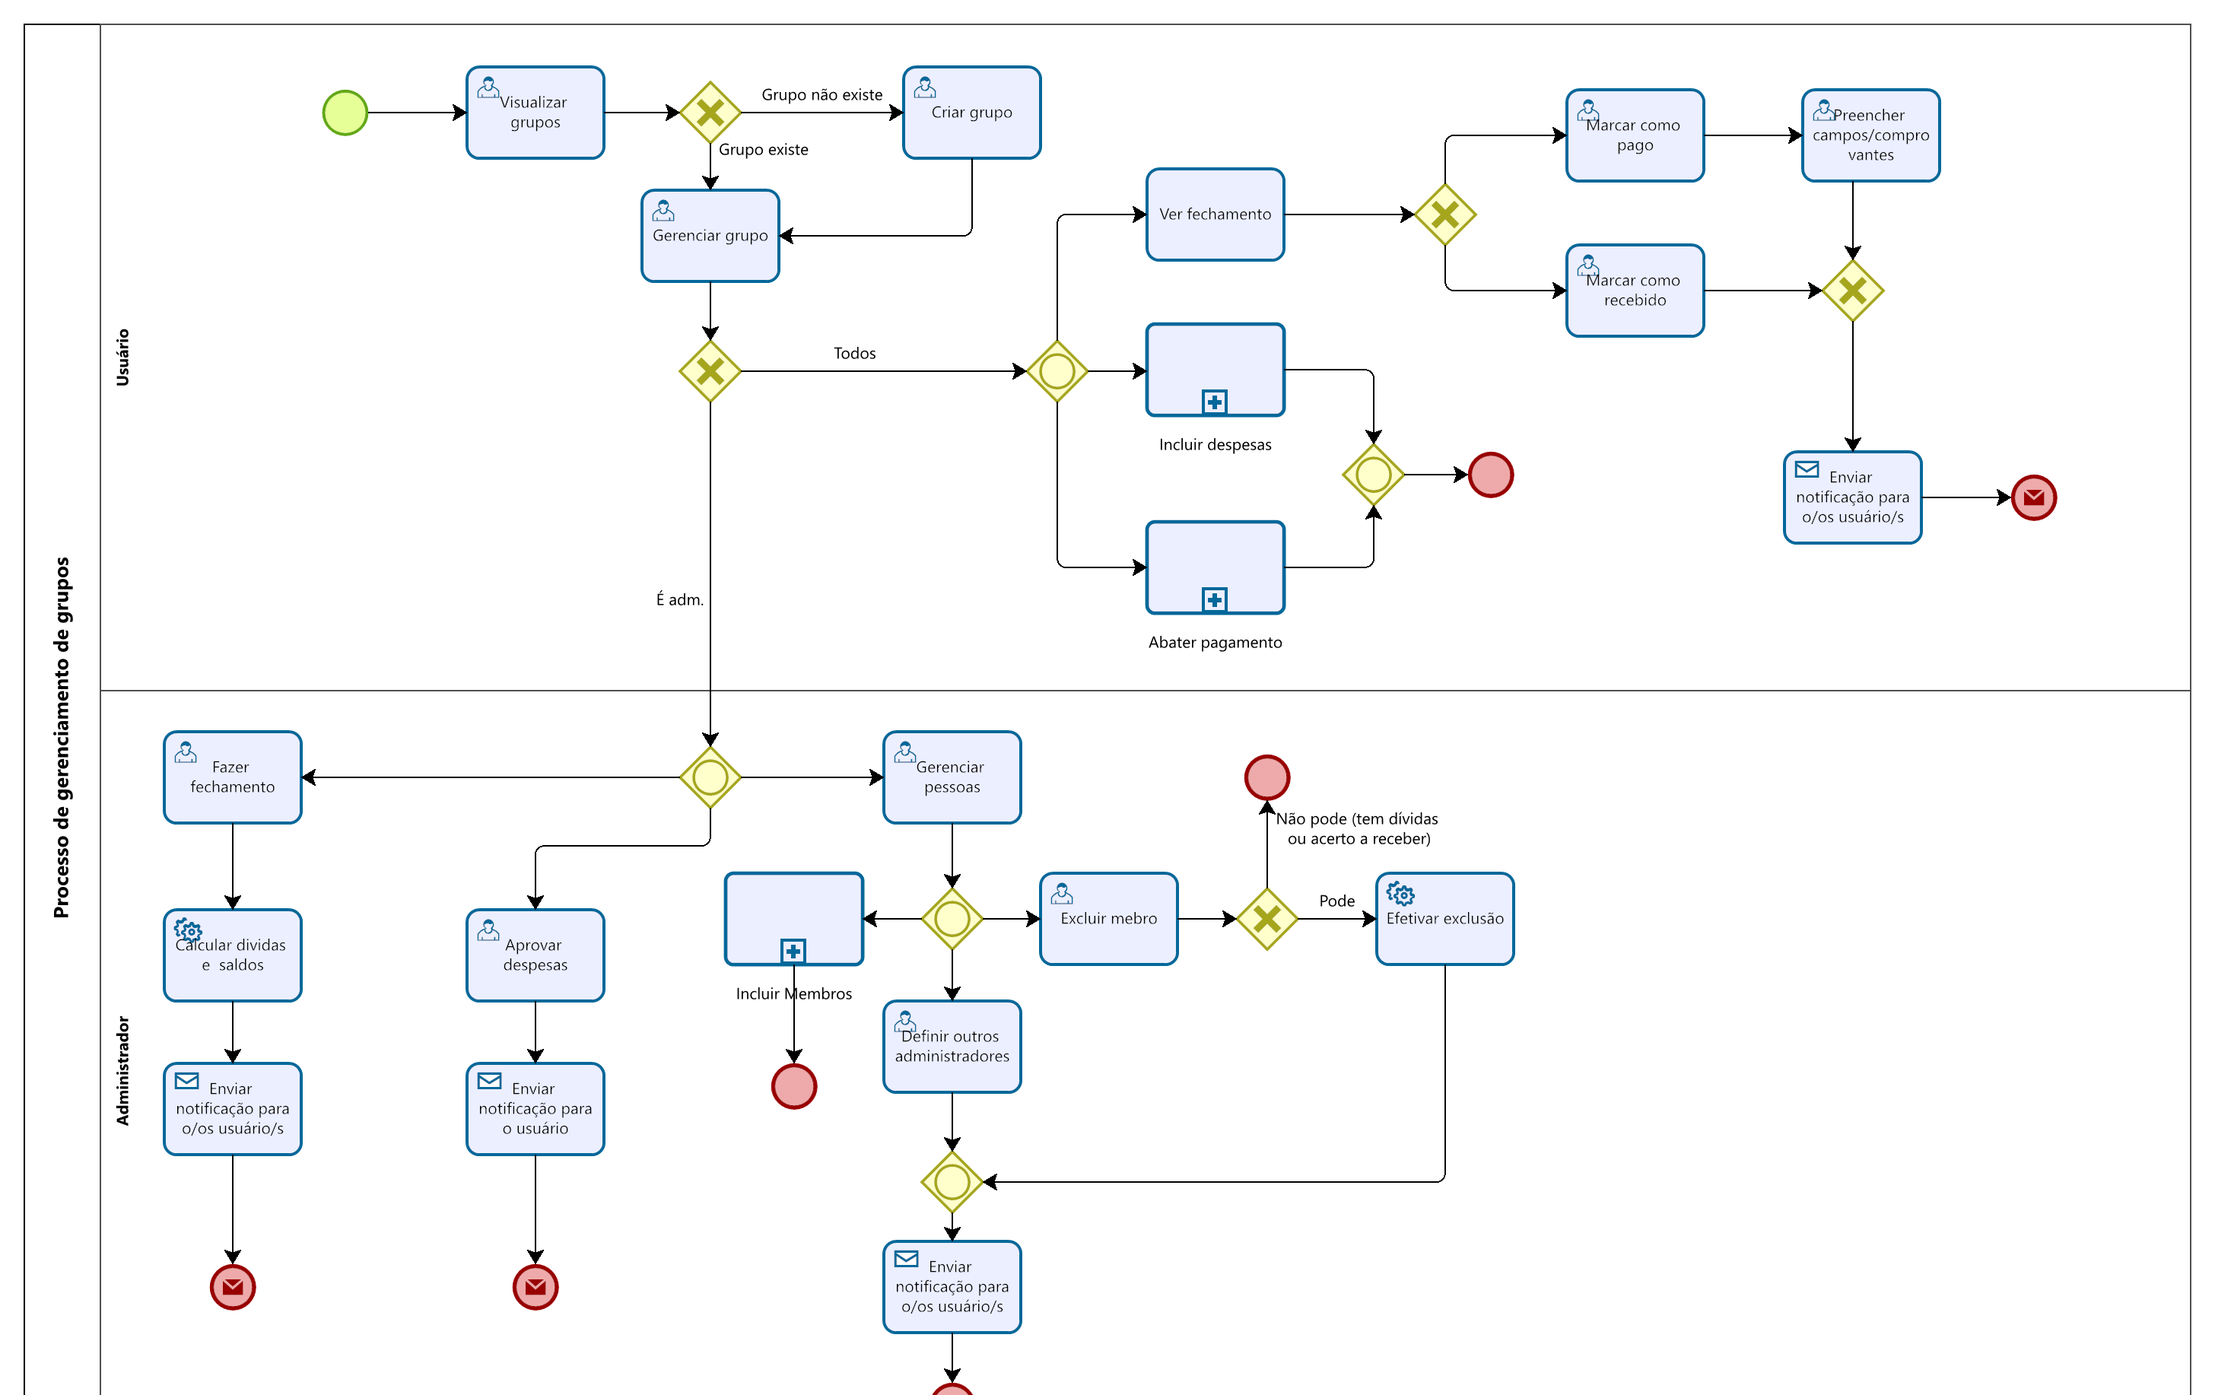
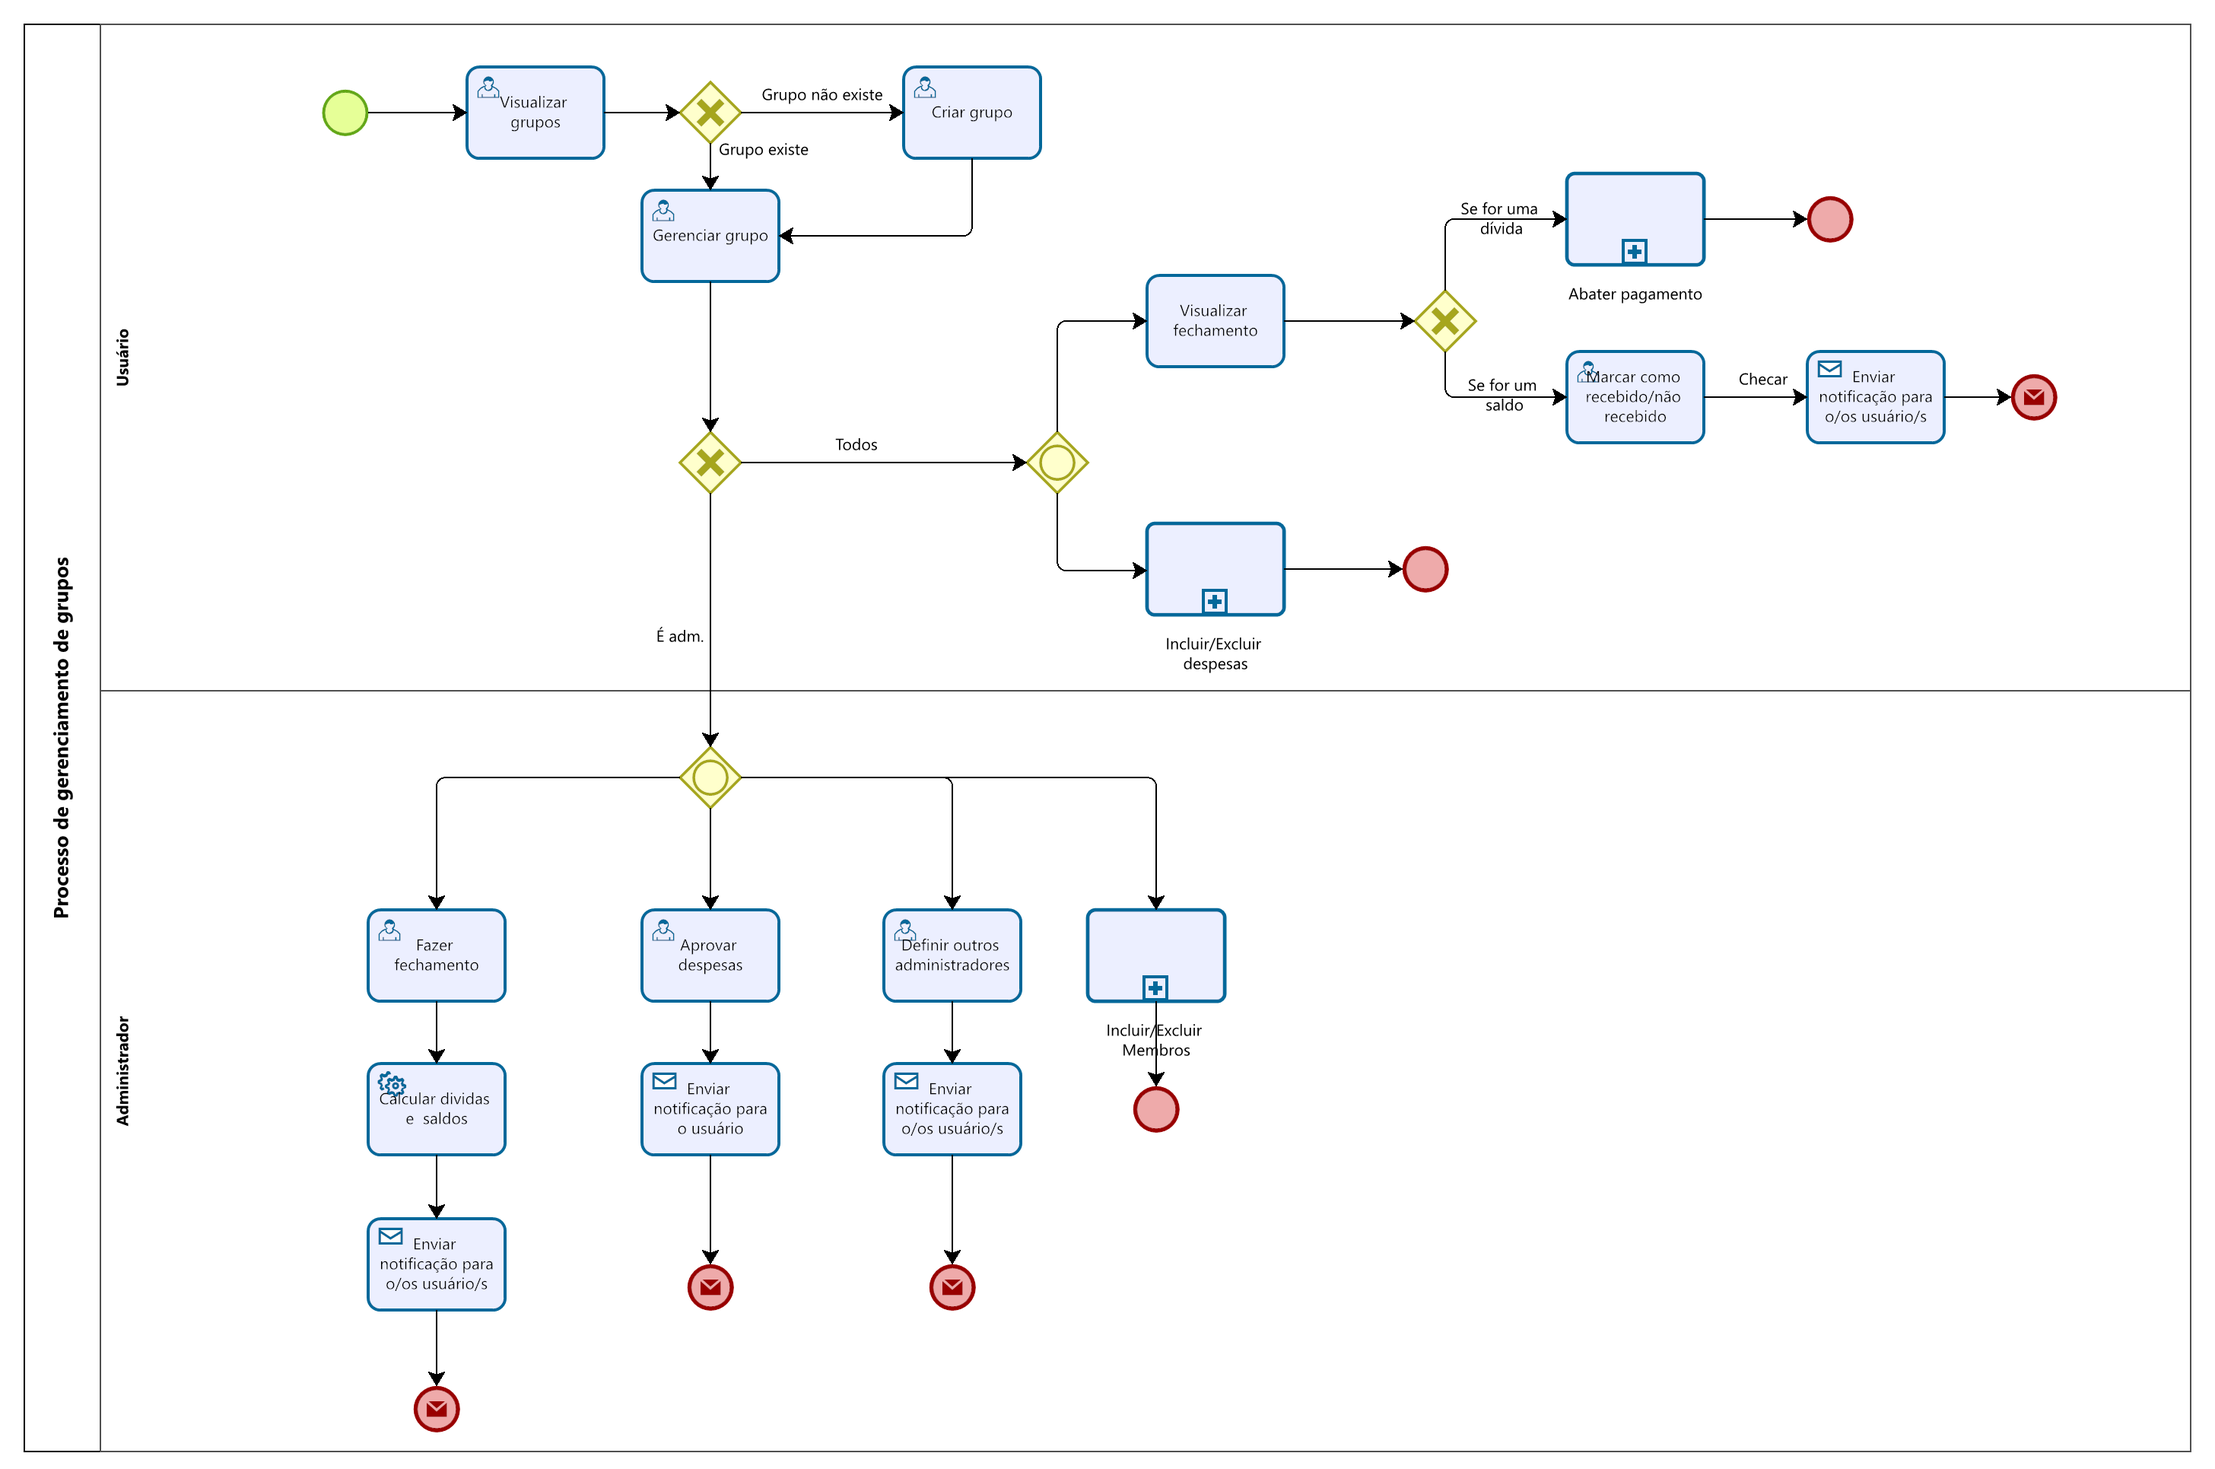
Ajustes nas modelagens

diff --git a/docs/processos/processo-2-gerenciamento-de-grupos.md b/docs/processos/processo-2-gerenciamento-de-grupos.md
@@ -11,15 +11,12 @@ Em seguida, apresente o modelo do processo 2, descrito no padrão BPMN._
 
 **Visualizar grupos**
 
-| **Campo**       | **Tipo**        | **Restrições**                                 | **Valor default** |
-| ---             | ---             | ---                                            | ---               |
-| termo_pesquisa  | Caixa de texto  | até 100 caracteres                              |                   |
-| ordenar_por     | Seleção única   | {“nome”, “criado_em”, “atualizado_em”}         | “atualizado_em”   |
-| grupos  | Tabela  |                          |  grupos do usuário                 |
+| **Campo**         | **Tipo**        | **Restrições**     | **Valor default**  |
+| ---               | ---             | ---                | ---                |
+| grupos            | Tabela          |                    |  grupos do usuário | 
 
 | **Comandos**  | **Destino**        | **Tipo**   |
 | ---           | ---                | ---        |
-| pesquisar     | Visualizar grupos   | default    |
 | abrir_grupo   | Gerenciar grupo    |            |
 | criar_grupo   | Criar grupo        |            |
 
@@ -47,49 +44,36 @@ Em seguida, apresente o modelo do processo 2, descrito no padrão BPMN._
 | **Campo**       | **Tipo**        | **Restrições**                            | **Valor default** |
 | ---             | ---             | ---                                       | ---               |
 | nome_grupo      | Caixa de texto  | obrigatório                               |                   |
-| descricao       | Área de texto   | até 500 caracteres                        |                   |
-| admins          | Tabela          | id, nome, e-mail                          |                   |
+| descricao       | Área de texto   | até 500 caracteres                        |                   |                  
+| imagem_capa     | Imagem          | opcional; até 5 MB                        |                   | 
 
-| **Comandos**       | **Destino**                   | **Tipo** |
-| ---                | ---                           | ---      |
-| incluir_despesa    | Incluir despesas (processo 4)             |          |
-| gerenciar_pessoas  | Gerenciar pessoas             |          |
-| gerenciar_despesas | Gerenciar despesas/fechamentos|          |
-| visualizar_fechamento     | Ver Fechamento               |          |
-| salvar             | Gerenciar grupo               | default  |
-| voltar             | Visualizar grupos              | cancel   |
+| **Comandos**          | **Destino**                   | **Tipo** |
+| ---                   | ---                           | ---      |
+| incluir_despesa       | Incluir despesas (processo 4) |          |
+| excluir_despesa       | Excluir despesas (processo 4) |          |
+| aprovar_despesas      | Aprovar despesas              |          |
+| incluir_membro (adm)  | Incluir membros (processo 3)  |          |
+| excluir_membro (adm)  | Excluir membro (processo 3)   |          |
+| definir_adm (adm)     | Nenhum                        |          |
+| visualizar_fechamento | Visualizar fechamento         |          |
+| fazer_fechamento (adm)| Visualizar fechamento         |          |
+| salvar                | Gerenciar grupo               | default  |
+| voltar                | Visualizar grupos             | cancel   |
 
 
 ---
 
 **Visualizar fechamento**
 
-| **Campo**       | **Tipo**        | **Restrições**                                 | **Valor default** |
-| ---             | ---             | ---                                            | ---               |
-| fechamento  | Tabela  |                          |  despesas que o usuário tem a receber ou pagar                |
+| **Campo**       | **Tipo**        | **Restrições**       | **Valor default**                             |
+| ---             | ---             | ---                  | ---                                           |
+| fechamento      | Tabela          |                      |  despesas que o usuário tem a receber ou pagar|
 
-| **Comandos**             | **Destino**        | **Tipo**   |
-| ---                     | ---                | ---        |
-| marcar_como_pago        | Marcar como pago    |            |
-| marcar_como_recebido   | Nenhum        |            |
-| cancelar               | Visualizar grupos  | cancel     |
-
-
----
-
-**Marcar como pago**
-
-| **Campo**       | **Tipo**       | **Restrições**                  | **Valor default** |
-| ---             | ---            | ---                             | ---               |
-| pagamento_id    | Número         | somente leitura                 |                   |
-| confirmar_valor | Seleção única  | {“conferido”, “divergente”}     | “conferido”       |
-| observacao      | Área de texto  | até 300 caracteres              |                   |
-| anexo     | Imagem          | opcional; até 10 MB                              |                   |
-
-| **Comandos**   | **Destino**                | **Tipo** |
-| ---            | ---                        | ---      |
-| Enviar        | Enviar notificação         | default  |    |
-| voltar         | Visualizar fechamento | cancel |
+| **Comandos**             | **Destino**                   | **Tipo**   |
+| ---                      | ---                           | ---        |
+| abater_pagamento         | Abater pagamento (processo 5) |            |
+| marcar_como_recebido     | Nenhum                        |            |
+| cancelar                 | Visualizar grupos             | cancel     |
 
 
 ---
@@ -97,10 +81,9 @@ Em seguida, apresente o modelo do processo 2, descrito no padrão BPMN._
 
 **Aprovar despesas**
 
-| **Campo**     | **Tipo**        | **Restrições**                        | **Valor default** |
-| ---           | ---             | ---                                   | ---               |
-| despesa_id    | Número          | somente leitura                       |                   |
-| parecer       | Área de texto   | até 300 caracteres                    |                   |
+| **Campo**           | **Tipo**        | **Restrições**      | **Valor default** |
+| ---                 | ---             | ---                 | ---               |
+| selecionar_despesas | Seleção múltipla|                     |                   |
 
 | **Comandos** | **Destino**                | **Tipo** |
 | ---          | ---                        | ---      |
@@ -112,24 +95,11 @@ Em seguida, apresente o modelo do processo 2, descrito no padrão BPMN._
 ---
 
 
-**Gerenciar pessoas**
-
-| **Comandos**       | **Destino**                   | **Tipo** |
-| ---                | ---                           | ---      |
-| incluir_membros    | Incluir membros               |          |
-| definir_admins     | Definir outros administradores|          |
-| tentar_excluir     | Excluir membro         |          |
-| voltar             | Gerenciar grupo               | cancel   |
-
-
----
-
-
 **Definir outros administradores**
 
-| **Campo**        | **Tipo**        | **Restrições**              | **Valor default** |
-| ---              | ---             | ---                         | ---               |
-| selecionar_membros | Seleção múltipla | somente membros ativos     |                   |
+| **Campo**          | **Tipo**         | **Restrições**          | **Valor default** |
+| ---                | ---              | ---                     | ---               |
+| selecionar_membros | Seleção múltipla | somente membros ativos  |                   |
 
 | **Comandos** | **Destino**       | **Tipo** |
 | ---          | ---               | ---      |
@@ -141,37 +111,26 @@ Em seguida, apresente o modelo do processo 2, descrito no padrão BPMN._
 
 **Excluir membro**
 
+| **Campo**          | **Tipo**         | **Restrições**    | **Valor default** |
+| ---                | ---              | ---               | ---               |
+| selecionar_membros | Seleção múltipla |                   |                   |
+
 | **Comandos** | **Destino**             | **Tipo** |
 | ---          | ---                     | ---      |
 | validar      | Gateway de verificação  | default  |
 | cancelar     | Gerenciar pessoas       | cancel   |
 
 
----
-
-
-**Gerenciar despesas/fechamentos**
-
-| **Campo**      | **Tipo**        | **Restrições**                  | **Valor default** |
-| ---            | ---             | ---                             | ---               |
-| filtro_status  | Seleção única   | {“pendente”, “aprovada”, “paga”}| “pendente”        |
-| periodo        | Data e Hora     | intervalo                       | mês atual         |
-| lista_itens    | Tabela          | despesas e pagamentos           |                   |
-
-| **Comandos**      | **Destino**             | **Tipo** |
-| ---               | ---                     | ---      |
-| aprovar_despesa   | Aprovar despesas        |          |
-| aprovar_pagamento | Aprovar pagamento       |          |
-| fazer_fechamento  | Fazer fechamento        |          |
-| voltar            | Gerenciar grupo         | cancel   |
-
 
 ---
 
 **Fazer fechamento**
 
+| **Campo**          | **Tipo**         | **Restrições**    | **Valor default** |
+| ---                | ---              | ---               | ---               |
+|                    |                  |                   |                   |
 
-| **Comandos**     | **Destino**       | **Tipo** |
-| ---              | ---               | ---      |
-| calcular_fechamentos   | Enviar notificação| default  |
-| cancelar         | Gerenciar despesas/fechamentos | cancel |
+| **Comandos**           | **Destino**                    | **Tipo** |
+| ---                    | ---                            | ---      |
+| calcular_fechamentos   | Enviar notificação             | default  |
+| cancelar               | Gerenciar despesas/fechamentos | cancel   |

diff --git a/docs/processos/processo-1-cadastro-e-login.md b/docs/processos/processo-1-cadastro-e-login.md
@@ -7,54 +7,52 @@ O processo de **Entrada no Sistema** começa quando o usuário vai até o browse
 
 #### Detalhamento das atividades
 
-**Nome da atividade 1** Entrar no Sistema
+**Fazer Login** 
 
-| **Campo**       | **Tipo**         | **Restrições** | **Valor default** |
-| ---             | ---              | ---            | ---               |
-| [Nome do campo] | [tipo de dados]  |                |                   |
-| ***Exemplo:***  |                  |                |                   |
-| login           | Caixa de Texto   | formato de e-mail |                |
-| senha           | Caixa de Texto   | mínimo de 8 caracteres |           |
+| **Campo**       | **Tipo**         | **Restrições**         | **Valor default** |
+| ---             | ---              | ---                    | ---               |
+| [Nome do campo] | [tipo de dados]  |                        |                   |
+| login           | Caixa de Texto   | formato de e-mail      |                   |
+| senha           | Caixa de Texto   | mínimo de 8 caracteres |                   |
 
-| **Comandos**         |  **Destino**                   | **Tipo** |
+| **Comandos**         |  **Destino**                   | **Tipo**          |
 | ---                  | ---                            | ---               |
-| ***Exemplo:***       |                                |                   |
 | Entrar               | Fim do Processo 1              | default           |
 
 
-**Nome da atividade 2** Preencher formulário de cadastrar
+**Preencher formulário de cadastro** 
 
-| **Campo**       | **Tipo**         | **Restrições** | **Valor default** |
-| ---             | ---              | ---            | ---               |
-| login           | Caixa de Texto   | formato de e-mail |                |
-| senha           | Caixa de Texto   | mínimo de 8 caracteres |           |
-| Nome            | Caixa de Texto   | mínimo de 5 caracteres |           |
-| Idade           | Número           |                |           |
-| Genero          | Seleção múltipla |                |                   |
-
-| **Comandos**         |  **Destino**                   | **Tipo**          |
-| ---                  | ---                            | ---               |
-| Cadastrar            | Início do proceso de cadastro  |                   |
-
-
-**Nome da atividade 3** Escolher validação
-
-| **Campo**       | **Tipo**         | **Restrições** | **Valor default** |
-| ---             | ---              | ---            | ---               |
-| Método           | Seleção múltipla   |  | Email               |
-
-
+| **Campo**       | **Tipo**         | **Restrições**         | **Valor default** |
+| ---             | ---              | ---                    | ---               |
+| login           | Caixa de Texto   | formato de e-mail      |                   |
+| senha           | Caixa de Texto   | mínimo de 8 caracteres |                   |
+| Nome            | Caixa de Texto   | mínimo de 5 caracteres |                   |
+| Idade           | Número           |                        |                   |
+| Genero          | Seleção múltipla |                        |                   |
 
 | **Comandos**         |  **Destino**                   | **Tipo**          |
 | ---                  | ---                            | ---               |
-| Enviar            | Início do proceso de validação  |                   |
+| Cadastrar            | Enviar código de validação     |                   |
 
-**Nome da atividade 4** Inserir código de validação
 
-| **Campo**       | **Tipo**         | **Restrições** | **Valor default** |
-| ---             | ---              | ---            | ---               |
-| codigo           | Caixa de Texto   | mínimo de 8 caracteres |                |
+**Enviar código de validação** 
+ 
+| **Campo**       | **Tipo**           | **Restrições** | **Valor default** |
+| ---             | ---                | ---            | ---               |
+| Método          | Seleção múltipla   |                | Email             |
+
+
+
+| **Comandos**      |  **Destino**                   | **Tipo**          |
+| ---               | ---                            | ---               |
+| Enviar            | Inserir código de validação    |                   |
+
+**Inserir código de validação** 
+
+| **Campo**       | **Tipo**         | **Restrições**         | **Valor default** |
+| ---             | ---              | ---                    | ---               |
+| codigo          | Caixa de Texto   | mínimo de 8 caracteres |                |
 
 | **Comandos**         |  **Destino**                   | **Tipo**          |
 | ---                  | ---                            | ---               |
-| Validar código       | Tela de entrada do sistema  |                   |
+| Validar código       | Fazer Login                    |                   |
